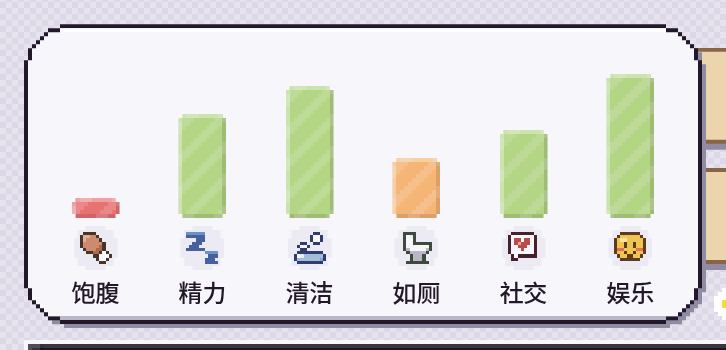
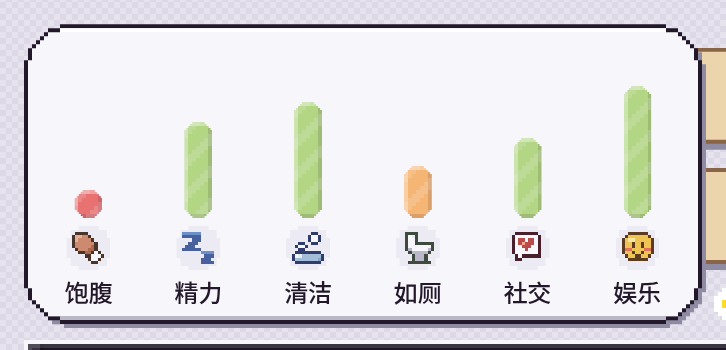
Restore single-row springy needs and prevent positive-emotion collapse; build current Windows release

diff --git a/tools/check_needs_collapse.js b/tools/check_needs_collapse.js
@@ -1,0 +1,13 @@
+const assert=require('node:assert/strict'),fs=require('node:fs'),{chromium}=require('playwright');
+(async()=>{const b=await chromium.launch({executablePath:'/usr/bin/chromium',args:['--no-sandbox']});try{const p=await b.newPage({viewport:{width:1280,height:1000},reducedMotion:'reduce'}),errors=[];p.on('pageerror',e=>errors.push(e.message));await p.goto(process.argv[2]||'http://127.0.0.1:8786/');await p.waitForFunction(()=>booted);await p.waitForTimeout(1400);await p.evaluate(()=>{closeGuide();closePicker();speed=0;sim.t=720;sim.mode='idle';sim.act=null;sim.windup=null;sim.talk=null;sim.idleUntil=Infinity;sim.graceUntil=0;socialState.nextCall=socialState.nextVisit=1e9;cardMoment=rollCard=rollEvents=()=>false;for(const k in sim.needs)sim.needs[k]=95;});fs.mkdirSync('/workspace/artifacts/needs-single-row',{recursive:true});
+for(const scale of [25,50,75,100]){await p.evaluate(v=>{setScale(v);setNeedsOpen(true);},scale);await p.waitForTimeout(100);const r=await p.evaluate(()=>{const bars=[...document.querySelectorAll('.need-well')];return{ys:bars.map(e=>e.getBoundingClientRect().top),widths:bars.map(e=>e.getBoundingClientRect().width),clip:getComputedStyle(document.querySelector('.need .fill')).clipPath,labels:[...document.querySelectorAll('.need-label')].map(e=>({font:parseFloat(getComputedStyle(e).fontSize),fits:e.scrollWidth<=e.clientWidth+1}))};});assert.ok(Math.max(...r.ys)-Math.min(...r.ys)<1,'Six bars are not on one row');assert.ok(r.widths.every(w=>Math.abs(w-14)<1),'Bars are not thin');assert.ok(r.clip.startsWith('polygon('));assert.ok(r.labels.every(e=>e.font>=12&&e.fits));await p.locator('#needsPanel').screenshot({path:`/workspace/artifacts/needs-single-row/${scale}.png`});await p.evaluate(()=>setNeedsOpen(false));}
+await p.emulateMedia({reducedMotion:'no-preference'});await p.evaluate(()=>{setScale(25);setNeedsOpen(false);});await p.waitForTimeout(650);
+const bounce=await p.evaluate(async()=>{const bars=[...document.querySelectorAll('.need-well')],max=bars.map(()=>0);setNeedsOpen(true);const start=performance.now();while(performance.now()-start<1300){bars.forEach((e,i)=>{const t=getComputedStyle(e).transform;max[i]=Math.max(max[i],t==='none'?1:new DOMMatrix(t).m22);});await new Promise(requestAnimationFrame);}return max;});assert.ok(bounce.every(v=>v>1.15),'Rebound is too subtle: '+bounce);
+await p.evaluate(()=>{setNeedsOpen(false);const ok=(value,message)=>{if(!value)throw Error(message);},reset=()=>{sim.mode='idle';sim.act=null;sim.down=null;sim.graceUntil=0;moods.clear();for(const k in sim.needs)sim.needs[k]=50;};
+ for(const emo of ['happy','playful','energized','inspired','confident','flirty','focused']){reset();ML.__positive_test={name:'测试正面心情',emo,pts:100,min:30};addMood('__positive_test',{diary:false,words:false});checkCollapse();ok(sim.mode!=='down','Positive emotion causes collapse: '+emo);}
+ reset();ML.__positive_test={name:'开心',emo:'playful',pts:20,min:30};ML.__tummy_test={name:'肚子疼',emo:'uncomfortable',pts:3,min:30};addMood('__positive_test',{diary:false,words:false});addMood('__tummy_test',{diary:false,words:false});checkCollapse();ok(sim.mode!=='down','Stomach discomfort plus playful became laugh-collapse');collapse('playful');ok(sim.mode!=='down','Direct positive collapse is still accepted');
+ for(const emo of EXTREME){reset();ML.__negative_test={name:'测试极端负面情绪',emo,pts:8,min:30};addMood('__negative_test',{diary:false,words:false});checkCollapse();ok(sim.mode==='down'&&sim.down.cause===emo,'Negative collapse cause lost: '+emo);}
+ for(const need of ['hunger','energy']){reset();ML.__positive_test={name:'开心',emo:'playful',pts:100,min:30};addMood('__positive_test',{diary:false,words:false});sim.needs[need]=0;checkCollapse();ok(sim.mode==='down'&&sim.down.cause===need,'Fatal need has wrong cause');}
+ reset();let saved=snapshot();saved.sim.mode='down';saved.sim.down={cause:'playful',t:sim.t};restore(saved);ok(sim.mode!=='down'&&!sim.down,'Old positive collapse not repaired');saved.sim.needs.hunger=0;restore(saved);ok(sim.mode==='down'&&sim.down.cause==='hunger','Old collapse lost genuine hunger');ok(!T.collapse.playful,'Laugh-collapse text remains registered');
+});assert.deepEqual(errors,[]);console.log('PASS: six thin pixel-rounded bars on one row at 4 zooms; >15% staggered rebound; positive emotions never cause collapse; discomfort/positive mix safe; true hunger/exhaustion and negative causes retained; old saves repaired. Rebound: '+bounce.map(v=>v.toFixed(2)).join(', '));
+}finally{await b.close();}})().catch(e=>{console.error(e);process.exitCode=1;});

diff --git a/prototype/demo/social_hud.css b/prototype/demo/social_hud.css
@@ -13,15 +13,15 @@
 .needs-segments { position:absolute; inset:var(--hud-track-edge); display:flex; gap:var(--sky-b); clip-path:var(--hud-track-in); }
 .needs-summary i { flex:1; min-width:0; background:var(--need-ok); }
 
-.needs-panel { position:absolute; bottom:18%; left:0; height:var(--needs-panel-height,150px); display:grid; grid-template-columns:repeat(var(--needs-columns,6),minmax(0,1fr)); padding:16px 12px 10px; color:var(--ink); transform-origin:8% 100%; transform:translateY(9px) scale(.9); opacity:0; visibility:hidden; pointer-events:none; transition:transform .34s var(--hud-spring) .14s,opacity .18s .28s,visibility 0s .5s; width:100%; gap:6px; }
+.needs-panel { position:absolute; bottom:var(--needs-panel-bottom,18%); left:0; height:var(--needs-panel-height,150px); display:grid; grid-template-columns:repeat(var(--needs-columns,6),minmax(0,1fr)); padding:24px 6px 10px; color:var(--ink); transform-origin:8% 100%; transform:translateY(9px) scale(.9); opacity:0; visibility:hidden; pointer-events:none; transition:transform .34s var(--hud-spring) .14s,opacity .18s .28s,visibility 0s .5s; width:max(100%,168px); gap:2px; }
 .needs.open .needs-panel { transform:translateY(0) scale(1); opacity:1; visibility:visible; pointer-events:auto; transition-duration:.46s,.2s,0s; transition-delay:0s; }
-.needs.open .needs-summary { opacity:0; }
+.needs.open .needs-summary { opacity:var(--needs-summary-open,0); }
 .needs:focus-visible { outline:2px dashed var(--focus); outline-offset:3px; }
 .need { display:flex; flex-direction:column; align-items:center; justify-content:flex-end; min-width:0; position:relative; height:100%; width:auto; gap:4px; }
-.need-well { position:relative; flex:1; width:min(72%,24px); min-height:0; transform:translateY(6px) scaleY(.08); transform-origin:50% 100%; opacity:0; transition:transform .28s var(--hud-settle),opacity .16s; transition-delay:calc((5 - var(--i))*28ms); }
-.needs.open .need-well { transform:none; opacity:1; transition:transform .62s var(--hud-spring),opacity .18s; transition-delay:calc(55ms + var(--i)*55ms); }
-.need .fill { position:absolute; inset:auto 0 0; height:max(8px,calc(var(--v)*100%)); background:var(--c); clip-path:var(--hud-meter-clip); box-shadow:inset 2px 2px 0 #ffffff55,inset -2px -2px 0 #22182a22; transition:background-color .25s; }
-@supports (height:round(down,50%,2px)) { .need .fill { height:max(8px,round(down,calc(var(--v)*100%),2px)); } }
+.need-well { position:relative; flex:1; width:14px; min-height:0; transform:translateY(6px) scaleY(.08); transform-origin:50% 100%; opacity:0; transition:transform .28s var(--hud-settle),opacity .16s; transition-delay:calc((5 - var(--i))*28ms); }
+.needs.open .need-well { transform:none; opacity:1; transition:transform .86s cubic-bezier(.12,2.2,.25,1),opacity .18s; transition-delay:calc(55ms + var(--i)*55ms); }
+.need .fill { position:absolute; inset:auto 0 0; height:max(14px,calc(var(--v)*100%)); background:var(--c); clip-path:var(--needs-fill-clip); box-shadow:inset 2px 2px 0 #ffffff55,inset -2px -2px 0 #22182a22; transition:background-color .25s; }
+@supports (height:round(down,50%,2px)) { .need .fill { height:max(14px,round(down,calc(var(--v)*100%),2px)); } }
 .need img,.needs.open .need img { position:static; width:22px; height:22px; padding:3px; background:var(--panel-2); clip-path:var(--hud-small-clip); image-rendering:pixelated; animation:none; }
 .need img,.need-label { opacity:0; transform:translateY(5px) scale(.9); transition:transform .24s var(--hud-settle),opacity .14s; transition-delay:calc((5 - var(--i))*22ms); }
 .needs.open .need img,.needs.open .need-label { opacity:1; transform:none; transition:transform .42s var(--hud-spring),opacity .18s; transition-delay:calc(125ms + var(--i)*55ms); }

diff --git a/prototype/demo/index.src.html b/prototype/demo/index.src.html
@@ -1880,7 +1880,7 @@ function rollEvents() {
 
 // ---------- collapse: never dangerous. She lies on the floor under a skull
 // bubble until you hold her for 5 seconds; then every need gets +10.
-const EXTREME = ["angry", "sad", "scared", "embarrassed", "tense", "uncomfortable", "playful"];
+const EXTREME = ["angry", "sad", "scared", "embarrassed", "tense", "uncomfortable"];
 function checkCollapse() {
   if (sim.mode === "down" || asleep() || sim.t < (sim.graceUntil || 0)) return;
   const n = sim.needs, e = emotion();
@@ -1888,6 +1888,7 @@ function checkCollapse() {
   if (cause) collapse(cause);
 }
 function collapse(cause) {
+  if (!["hunger","energy",...EXTREME].includes(cause)) return false;
   stopNpcTalk("得先休息一下");
   if (sim.act === "dress") closeWardrobe();
   if (sim.place === "mall") { if(mallVisitInside())mallLeaveVisit(false,false);mallS.stop = null; mallS.goal = null; mallS.toilet = null; mallS.visit = null; }
@@ -4589,10 +4590,10 @@ function restore(sv) {
   if (m.mode === "act" && ACTS[m.act] && m.act !== "dress" && m.act !== "npc_chat") {
     sim.mode = "act"; sim.act = m.act; sim.actEnd = m.actEnd;
     if (D.spots[ACTS[m.act].spot]) [storey, x] = D.spots[ACTS[m.act].spot];       // back at her spot
-  } else if (m.mode === "down" && m.down) {
-    sim.mode = "down"; sim.act = null; sim.down = m.down;
+  } else if (m.mode === "down" && m.down && (["hunger","energy",...EXTREME].includes(m.down.cause) || sim.needs.hunger<=0 || sim.needs.energy<=0)) {
+    sim.mode = "down"; sim.act = null; sim.down = {...m.down,cause:sim.needs.hunger<=0?"hunger":sim.needs.energy<=0?"energy":m.down.cause};
   } else {
-    sim.mode = "idle"; sim.act = null; sim.idleUntil = sim.t + 1;          // she was walking: she'll decide again
+    sim.mode = "idle"; sim.act = null; sim.down = null; sim.idleUntil = sim.t + 1;          // she was walking: she'll decide again
   }
   sim.route = [[x, FLOOR_Y[storey] ?? FLOOR_Y[1]]]; sim.s = 0; sim.target = 0; sim.crossing = [];
   sim.place = OUT[m.place] ? m.place : "home";

diff --git a/prototype/demo/ui_layout.js b/prototype/demo/ui_layout.js
@@ -4,14 +4,14 @@ const UI_SCALES=Object.freeze([25,50,75,100]);
 function uiMetrics(width,height){
  const growth=Math.max(0,Math.min(1,(width-342)/1026)),font=(min,extra)=>Math.round(min+extra*growth);
  return {compact:width<520,contactCompact:width<420,contactColumns:width<300?2:3,stackedContacts:width<260,callStacked:width<300,
-  needColumns:width<220?2:width<420?3:6,needHeight:width<220?300:width<420?210:150,
+  needColumns:6,needHeight:150,needDetached:width<342,
   caption:12,speech:font(17,3),label:font(12,1),body:font(13,3),control:font(12,2),heading:font(16,4),
   cardTitle:font(20,15),cardBody:font(13,9),name:font(12,4),pill:font(13,3),gap:width<520?4:8,padding:width<520?6:12};
 }
 function sizeGameUi(width,height){
  const m=uiMetrics(width,height),root=document.getElementById('widget'),style=root.style;root.dataset.uiSize=m.compact?'compact':'regular';
  for(const key of ['caption','label','body','control','heading','cardTitle','cardBody','name','pill','speech'])style.setProperty('--ui-font-'+key.replace(/[A-Z]/g,c=>'-'+c.toLowerCase()),m[key]+'px');
- style.setProperty('--needs-columns',m.needColumns);style.setProperty('--needs-panel-height',m.needHeight+'px');
+ style.setProperty('--needs-columns',m.needColumns);style.setProperty('--needs-panel-bottom',m.needDetached?'calc(100% + 6px)':'18%');style.setProperty('--needs-summary-open',m.needDetached?1:0);style.setProperty('--needs-panel-height',m.needHeight+'px');
  style.setProperty('--ui-gap',m.gap+'px');style.setProperty('--ui-padding',m.padding+'px');
  style.setProperty('--say-fs',m.speech+'px');
  style.setProperty('--ring-fs',m.control+'px');style.setProperty('--mp-fs',m.pill+'px');style.setProperty('--contact-name-fs',m.name+'px');

diff --git a/prototype/demo/life_text.js b/prototype/demo/life_text.js
@@ -4364,7 +4364,6 @@ const LIFE_TEXT = {
     embarrassed: ["羞得想原地消失，结果真的晕了过去。", "脸红得发烫，一下子羞晕了过去。", "尴尬到不行，干脆两眼一闭晕了过去。"],
     tense: ["急得团团转，转着转着晕了过去。", "紧张得喘不上气，眼前一黑倒下了。", "心里乱成一团，急得晕了过去。"],
     uncomfortable: ["难受得受不了，倒在了地上。", "浑身难受，实在撑不住，倒在了地上。", "哪里都不舒服，最后瘫倒在了地上。"],
-    playful: ["笑得喘不过气，笑晕了过去。", "疯玩了太久，一口气没接上，倒在了地上。", "笑到肚子疼，笑着笑着晕了过去。"],
   },
 
   // the bookshelf: each genre's books and how they leave her feeling ([moodlet, weight])

diff --git a/prototype/demo/social_hud.js b/prototype/demo/social_hud.js
@@ -35,6 +35,7 @@ function sizeSocialHud(){
   contactsPanel.classList.toggle('stacked',metrics.stackedContacts);
   incomingCall.classList.toggle('compact',metrics.callStacked);
   style.setProperty('--contact-avatar-clip',roundClip(compact?5:8,2));
+  style.setProperty('--needs-fill-clip',roundClip(7,1));
   style.setProperty('--hud-track-in',roundClip(2,b));
   style.setProperty('--hud-track-edge',2*b+'px');
 }

diff --git a/docs/UI_LAYOUT.md b/docs/UI_LAYOUT.md
@@ -28,7 +28,7 @@
 - 机会卡、结果、饮食/电影/书籍等菜单和社交弹窗必须卡住房屋尺寸。
   固定标题，正文在内部滚动；社交弹窗用 `socialContent()` 分离内容和操作区。
 - 人脉固定父母在前，四字姓名完整显示；小组件改排列方式，不能把字挤没。
-- 小尺寸需求面板改成多行网格，不越过右边的时间条。需求、物品、造型网格按列对齐；选中加粗不能改变行高或列宽。
+- 需求面板在四档都保持六根一排。特别窄的显示缩放下，面板整体向上浮出以保留文字空间，不越过右边时间条。需求、物品、造型网格按列对齐；选中加粗不能改变行高或列宽。
 - 六类造型选项和页签共用 `--st-option-clip` 与 `--st-option-in`，4px 阶梯小圆角、
   2px 框线。禁止平滑大圆角/胶囊。人物与像素预览坚持整数缩放。
 - 动画只操作透明度和变换；不要用动画改字号、布局宽高或存档状态。

diff --git a/desktop/README.md b/desktop/README.md
@@ -89,3 +89,9 @@ Downloads are tried from GitHub, then through public GitHub mirrors
 latest.json) since GitHub is often slow or cut off in mainland China; the
 signature check makes the source irrelevant to safety. Problems are logged
 to `update.log` in the config folder (Windows: `%APPDATA%\com.desktopbuddy.app`).
+
+The Windows release workflow builds the game page from the current source on
+Linux first, then passes that exact page to the Windows signing/build job.
+Committing a generated demo page is unnecessary for a manual release; use the
+Desktop app workflow on the intended branch. This keeps browser and EXE content
+in sync and prevents an old checked-in page from entering a new release.
